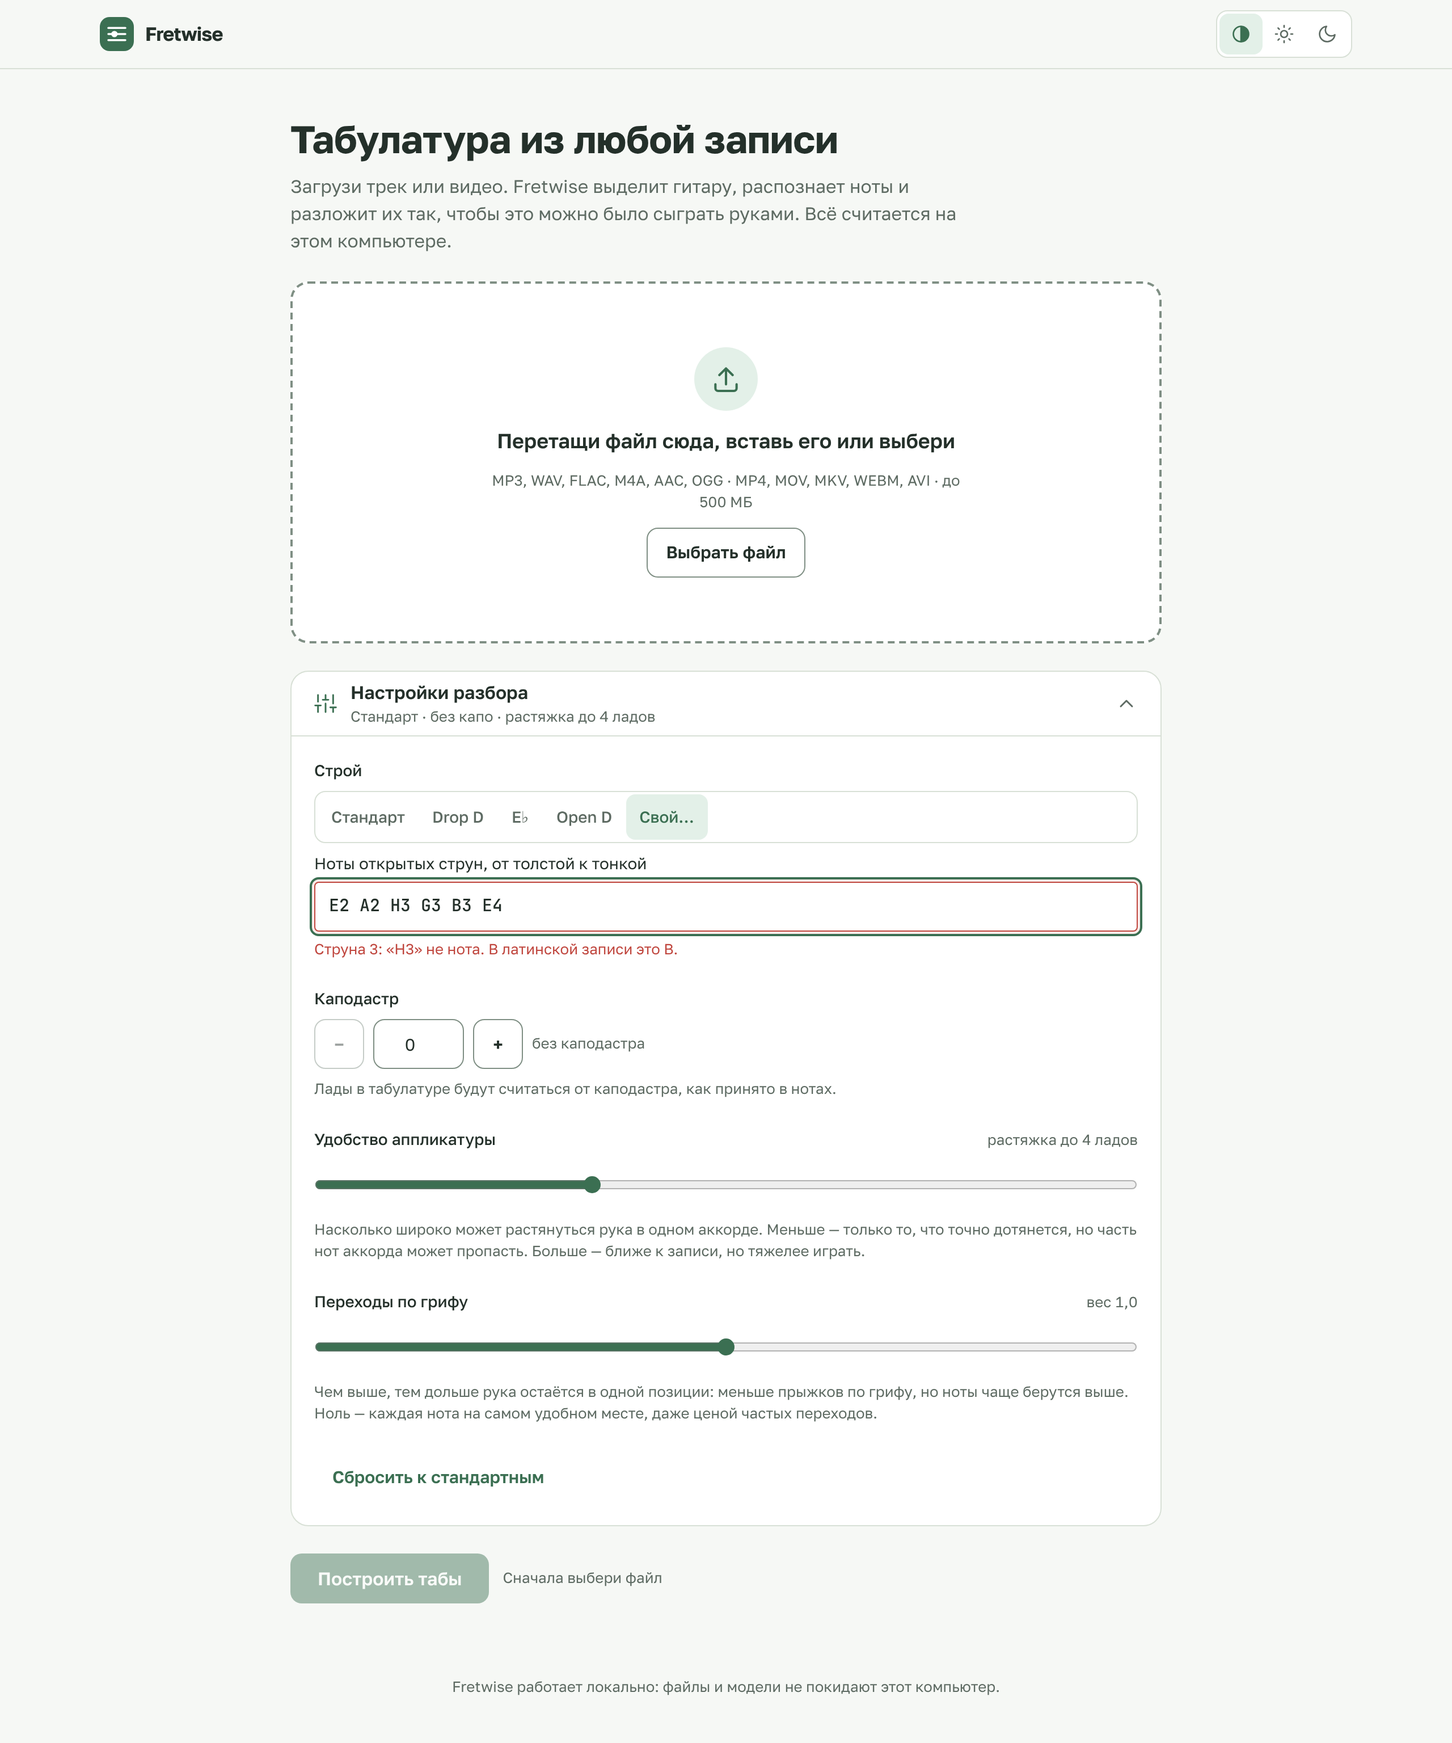
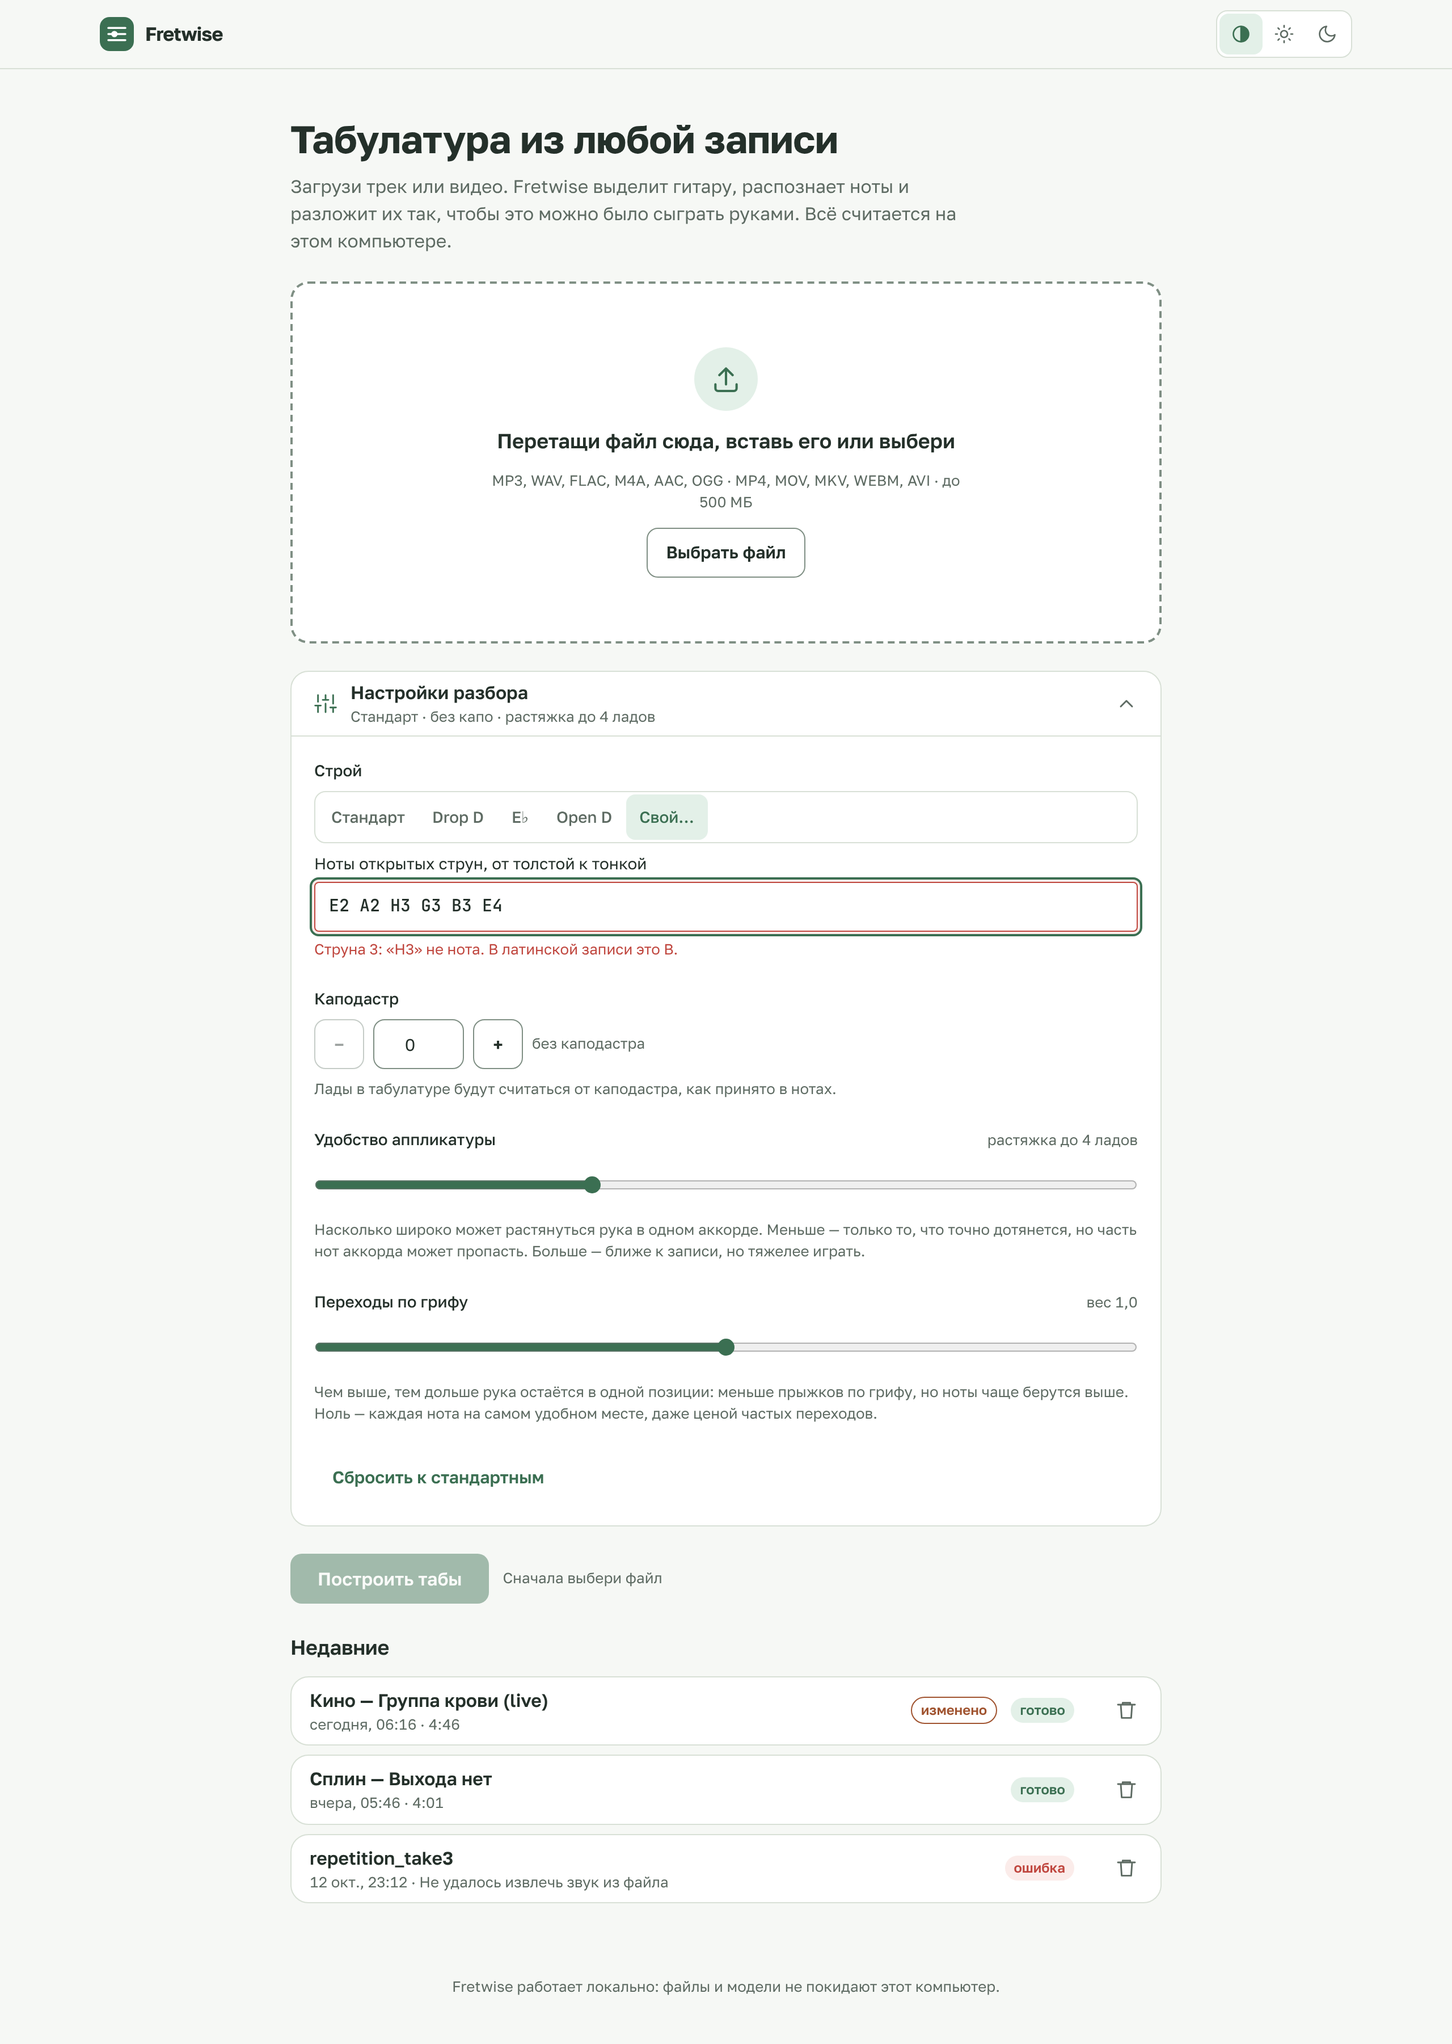
Job history on the start screen
- «Недавние» list under the upload form: title, when (сегодня / вчера /
  date), duration, status badge (готово / ошибка / отменено / в работе),
  «изменено» for edited tabs; one click opens the job (same restore path
  as ?job=), delete with inline confirmation; empty-state hint
- App: restoreJob shared by ?job= on load and opening from history
- Tests: history listing and opening, delete, empty state; App test
  mock answers the history request by default
- README: history, TTL across restarts, GET /api/jobs; screenshots
  regenerated with history

Claude-Session: https://claude.ai/code/session_01VXTWEvXddPh27pwJsDT9Na

diff --git a/frontend/src/components/RecentJobs.tsx b/frontend/src/components/RecentJobs.tsx
@@ -1,0 +1,121 @@
+import { useEffect, useState } from "react";
+import type { JobStage, JobSummary } from "../types";
+import { deleteJob, errorMessage, listJobs } from "../api/client";
+import { formatTime, formatWhen } from "../lib/format";
+import { TrashIcon } from "./icons";
+import { Button, IconButton, Spinner } from "./ui";
+
+const STAGE_BADGE: Partial<Record<JobStage, { label: string; className: string }>> = {
+  done: { label: "готово", className: "bg-accent-soft text-accent-strong" },
+  error: { label: "ошибка", className: "bg-danger-soft text-danger" },
+  cancelled: { label: "отменено", className: "border border-line text-muted" },
+};
+
+function badge(stage: JobStage) {
+  return STAGE_BADGE[stage] ?? { label: "в работе", className: "bg-accent-soft text-accent-strong" };
+}
+
+interface Props {
+  onOpen: (jobId: string) => void;
+}
+
+/**
+ * The job history on the upload screen: what was transcribed before (it
+ * survives server restarts), with one click back into any result.
+ */
+export default function RecentJobs({ onOpen }: Props) {
+  const [jobs, setJobs] = useState<JobSummary[] | null>(null);
+  const [error, setError] = useState<string | null>(null);
+  const [confirming, setConfirming] = useState<string | null>(null);
+  const [deleting, setDeleting] = useState<string | null>(null);
+
+  useEffect(() => {
+    let cancelled = false;
+    listJobs()
+      .then((list) => !cancelled && setJobs(list))
+      .catch((e) => !cancelled && setError(errorMessage(e, "Не удалось загрузить историю")));
+    return () => {
+      cancelled = true;
+    };
+  }, []);
+
+  const remove = async (id: string) => {
+    setDeleting(id);
+    try {
+      await deleteJob(id);
+      setJobs((list) => list?.filter((j) => j.id !== id) ?? null);
+    } catch (e) {
+      setError(errorMessage(e, "Не удалось удалить задачу"));
+    } finally {
+      setDeleting(null);
+      setConfirming(null);
+    }
+  };
+
+  if (error) return <p className="text-[13px] text-muted">{error}</p>;
+  if (jobs === null) return null;
+
+  return (
+    <section aria-labelledby="recent-title" className="grid grid-cols-[minmax(0,1fr)] gap-3">
+      <h2 id="recent-title" className="text-lg font-semibold">
+        Недавние
+      </h2>
+      {jobs.length === 0 ? (
+        <p className="text-[15px] text-muted">Здесь появятся разобранные треки — к ним можно будет вернуться в любой момент.</p>
+      ) : (
+        <ul className="grid grid-cols-[minmax(0,1fr)] gap-2">
+          {jobs.map((job) => {
+            const b = badge(job.stage);
+            const running = !["done", "error", "cancelled"].includes(job.stage);
+            return (
+              <li key={job.id} className="flex items-center gap-2 rounded-lg border border-line bg-surface pr-2">
+                <button
+                  type="button"
+                  onClick={() => onOpen(job.id)}
+                  className="flex min-h-14 min-w-0 flex-1 items-center gap-3 rounded-lg px-4 py-2 text-left hover:bg-accent-soft/50"
+                >
+                  <span className="min-w-0 flex-1">
+                    <span className="block truncate font-semibold" title={job.title}>
+                      {job.title}
+                    </span>
+                    <span className="tabular block truncate text-[13px] text-muted">
+                      {formatWhen(job.createdAt)}
+                      {job.durationSeconds ? ` · ${formatTime(job.durationSeconds)}` : ""}
+                      {job.stage === "error" && job.error ? ` · ${job.error.split("\n")[0]}` : ""}
+                    </span>
+                  </span>
+                  {job.edited && (
+                    <span className="hidden rounded-full border border-warm px-2 py-0.5 text-[12px] font-semibold text-warm sm:inline">изменено</span>
+                  )}
+                  <span className={`inline-flex items-center gap-1 rounded-full px-2 py-0.5 text-[12px] font-semibold ${b.className}`}>
+                    {running && <Spinner size={10} />}
+                    {b.label}
+                  </span>
+                </button>
+                {confirming === job.id ? (
+                  <span className="flex items-center gap-1">
+                    <Button variant="danger" loading={deleting === job.id} onClick={() => remove(job.id)}>
+                      Удалить
+                    </Button>
+                    <Button variant="ghost" onClick={() => setConfirming(null)}>
+                      Нет
+                    </Button>
+                  </span>
+                ) : (
+                  <IconButton
+                    label={`Удалить «${job.title}»`}
+                    onClick={() => setConfirming(job.id)}
+                    disabled={running}
+                    className="text-muted hover:bg-danger-soft hover:text-danger"
+                  >
+                    <TrashIcon />
+                  </IconButton>
+                )}
+              </li>
+            );
+          })}
+        </ul>
+      )}
+    </section>
+  );
+}

diff --git a/frontend/src/App.test.tsx b/frontend/src/App.test.tsx
@@ -56,7 +56,14 @@ const result: JobResult = {
 type Route = (url: string, init?: RequestInit) => Response | Promise<Response>;
 
 function mockFetch(route: Route) {
-  const fn = vi.fn(async (input: RequestInfo | URL, init?: RequestInit) => route(String(input), init));
+  const fn = vi.fn(async (input: RequestInfo | URL, init?: RequestInit) => {
+    // The upload screen's history list; tests that care override it in `route`.
+    if (String(input) === "/api/jobs" && (!init?.method || init.method === "GET")) {
+      const routed = await route(String(input), init);
+      return routed.headers.get("x-history") ? routed : json([]);
+    }
+    return route(String(input), init);
+  });
   vi.stubGlobal("fetch", fn);
   return fn;
 }
@@ -120,7 +127,8 @@ describe("restoring a job from ?job=", () => {
     const fetchMock = mockFetch(() => json({}));
     render(<App />);
     expect(screen.getByText("Построить табы")).toBeInTheDocument();
-    expect(fetchMock).not.toHaveBeenCalled();
+    expect(fetchMock.mock.calls.map((c) => String(c[0]))).not.toContain("/api/jobs/../../etc");
+    expect(fetchMock.mock.calls.every((c) => String(c[0]) === "/api/jobs")).toBe(true);
   });
 });
 
@@ -407,5 +415,54 @@ describe("editing the tab", () => {
     await waitFor(() => expect(screen.queryByText("изменено")).not.toBeInTheDocument());
     fireEvent.click(document.querySelector('[data-note="0:0"]')!);
     expect(fretInput().value).toBe("3");
+  });
+});
+
+
+describe("history", () => {
+  const history = [
+    { id: JOB_ID, title: "Группа крови", stage: "done", createdAt: Date.now() / 1000 - 60, durationSeconds: 286, edited: true },
+    { id: "f".repeat(32), title: "Сломанный файл", stage: "error", createdAt: Date.now() / 1000 - 90000, edited: false, error: "Не удалось извлечь звук" },
+  ];
+  const historyResponse = () => new Response(JSON.stringify(history), { status: 200, headers: { "x-history": "1" } });
+
+  it("lists previous jobs with status and opens one in a click", async () => {
+    mockFetch((url) => {
+      if (url === "/api/jobs") return historyResponse();
+      if (url.endsWith("/result")) return json(result);
+      return json(status("done", { progress: 1 }));
+    });
+    render(<App />);
+    const recent = await screen.findByRole("region", { name: "Недавние" });
+    expect(recent).toHaveTextContent("Группа крови");
+    expect(recent).toHaveTextContent("готово");
+    expect(recent).toHaveTextContent("изменено");
+    expect(recent).toHaveTextContent("ошибка");
+    expect(recent).toHaveTextContent(/сегодня, \d\d:\d\d · 4:46/);
+    expect(recent).toHaveTextContent(/вчера/);
+
+    fireEvent.click(screen.getByRole("button", { name: /^Группа крови/ }));
+    expect(await screen.findByRole("heading", { name: "Группа крови" })).toBeInTheDocument();
+    expect(window.location.search).toBe(`?job=${JOB_ID}`);
+  });
+
+  it("deletes a job after confirming", async () => {
+    const fetchMock = mockFetch((url, init) => {
+      if (url === "/api/jobs") return historyResponse();
+      if (init?.method === "DELETE") return new Response(null, { status: 204 });
+      return json({});
+    });
+    render(<App />);
+    await screen.findByRole("region", { name: "Недавние" });
+    fireEvent.click(screen.getByRole("button", { name: "Удалить «Сломанный файл»" }));
+    fireEvent.click(screen.getByRole("button", { name: "Удалить" }));
+    await waitFor(() => expect(screen.queryByText("Сломанный файл")).not.toBeInTheDocument());
+    expect(fetchMock).toHaveBeenCalledWith(`/api/jobs/${"f".repeat(32)}`, expect.objectContaining({ method: "DELETE" }));
+  });
+
+  it("explains the empty history", async () => {
+    mockFetch(() => json({}));
+    render(<App />);
+    expect(await screen.findByText(/Здесь появятся разобранные треки/)).toBeInTheDocument();
   });
 });

diff --git a/frontend/src/App.tsx b/frontend/src/App.tsx
@@ -210,15 +210,14 @@ export default function App() {
     }
   }, [status, closeStream]);
 
-  // Coming back to `?job=<id>` (reload, bookmark): pick up wherever that job is.
-  useEffect(() => {
-    const jobId = jobIdFromUrl();
-    if (!jobId) return;
-    let cancelled = false;
-    (async () => {
+  /** Pick up wherever a job is: processing, result or failure. Used for
+   * `?job=<id>` on load (reload, bookmark) and for opening a job from the
+   * history list. */
+  const restoreJob = useCallback(
+    async (jobId: string, isCancelled: () => boolean = () => false) => {
       try {
         const current = await getJobStatus(jobId);
-        if (cancelled) return;
+        if (isCancelled()) return;
         setStatus(current);
         if (current.stage === "done") {
           await loadResult(jobId);
@@ -227,7 +226,7 @@ export default function App() {
           if (current.stage !== "error" && current.stage !== "cancelled") watchJob(jobId);
         }
       } catch (e) {
-        if (cancelled) return;
+        if (isCancelled()) return;
         setJobIdInUrl(null);
         setView("upload");
         setError(
@@ -236,11 +235,33 @@ export default function App() {
             : errorMessage(e, "Не удалось восстановить задачу из ссылки"),
         );
       }
+    },
+    [loadResult, watchJob],
+  );
+
+  useEffect(() => {
+    const jobId = jobIdFromUrl();
+    if (!jobId) return;
+    let cancelled = false;
+    (async () => {
+      await restoreJob(jobId, () => cancelled);
     })();
     return () => {
       cancelled = true;
     };
-  }, [loadResult, watchJob]);
+  }, [restoreJob]);
+
+  const openJob = useCallback(
+    (jobId: string) => {
+      setError(null);
+      setConnectionError(null);
+      setFile(null);
+      setJobIdInUrl(jobId);
+      setView("restoring");
+      void restoreJob(jobId);
+    },
+    [restoreJob],
+  );
 
   useEffect(() => () => esRef.current?.close(), []);
 
@@ -280,6 +301,7 @@ export default function App() {
             onSubmit={startJob}
             submitting={submitting}
             error={error}
+            onOpenJob={openJob}
           />
         )}
 

diff --git a/frontend/src/components/UploadScreen.tsx b/frontend/src/components/UploadScreen.tsx
@@ -1,6 +1,7 @@
 import { useCallback, useEffect, useId, useMemo, useRef, useState, type ReactNode } from "react";
 import type { TabSettings } from "../types";
 import { formatSize, formatTime } from "../lib/format";
+import RecentJobs from "./RecentJobs";
 import SettingsPanel from "./SettingsPanel";
 import { MusicFileIcon, UploadIcon, VideoFileIcon } from "./icons";
 import { Alert, Button } from "./ui";
@@ -88,9 +89,10 @@ interface Props {
   submitting: boolean;
   /** Server or restore error shown above the form. */
   error: string | null;
+  onOpenJob: (jobId: string) => void;
 }
 
-export default function UploadScreen({ file, onFileChange, settings, onSettingsChange, onSubmit, submitting, error }: Props) {
+export default function UploadScreen({ file, onFileChange, settings, onSettingsChange, onSubmit, submitting, error, onOpenJob }: Props) {
   const inputRef = useRef<HTMLInputElement>(null);
   const [dragging, setDragging] = useState(false);
   const [rejection, setRejection] = useState<string | null>(null);
@@ -198,6 +200,8 @@ export default function UploadScreen({ file, onFileChange, settings, onSettingsC
         {!file && <span className="text-[13px] text-muted">Сначала выбери файл</span>}
         {file && !settingsValid && <span className="text-[13px] text-danger">Исправь строй в настройках</span>}
       </div>
+
+      <RecentJobs onOpen={onOpenJob} />
     </div>
   );
 }

diff --git a/frontend/src/lib/format.ts b/frontend/src/lib/format.ts
@@ -30,3 +30,14 @@ export function formatEta(seconds: number | null | undefined): string | null {
   const minutes = Math.round(seconds / 60);
   return `≈ ${minutes} ${plural(minutes, ["минута", "минуты", "минут"])}`;
 }
+
+/** "сегодня, 14:32" / "вчера, 09:10" / "3 окт., 18:05" */
+export function formatWhen(unixSeconds: number, now = new Date()): string {
+  const date = new Date(unixSeconds * 1000);
+  const time = date.toLocaleTimeString("ru-RU", { hour: "2-digit", minute: "2-digit" });
+  const startOfToday = new Date(now.getFullYear(), now.getMonth(), now.getDate()).getTime();
+  const day = 24 * 3600 * 1000;
+  if (date.getTime() >= startOfToday) return `сегодня, ${time}`;
+  if (date.getTime() >= startOfToday - day) return `вчера, ${time}`;
+  return `${date.toLocaleDateString("ru-RU", { day: "numeric", month: "short" })}, ${time}`;
+}

diff --git a/README.md b/README.md
@@ -22,6 +22,7 @@ The resulting tab plays back in the browser with a cursor synced to the audio, a
 - Keyboard shortcuts (Space, ←/→, L, +/−, M, C, G, ?) with an in-app list
 - Light and dark themes («Шалфей» palette, WCAG AA contrast), usable from a 375 px phone to a wide monitor
 - The job lives in the URL (`?job=…`), so a reload brings you back to the same progress screen or result
+- **Job history** on the start screen: previous transcriptions (with their edits) survive server restarts and open in one click; finished jobs expire after `FRETWISE_JOB_TTL_HOURS`
 - **Fix notes in the browser**: change fret or string, delete or add notes, undo/redo (Ctrl+Z / Ctrl+Shift+Z); edits are saved on the server and every export includes them
 - **Export** to Guitar Pro (`.gp5`, via PyGuitarPro), plain-text ASCII tab (`.txt`) and Standard MIDI (`.mid`), all on the same bar grid
 - One-command **Docker Compose** setup
@@ -48,6 +49,7 @@ More in [`docs/screenshots/`](docs/screenshots). They are generated from the pro
 
 | Method | Path | Purpose |
 |---|---|---|
+| `GET` | `/api/jobs` | Job history, newest first |
 | `POST` | `/api/jobs` | Upload a file (`file`) with `settings` (JSON) and start a job |
 | `GET` | `/api/jobs/{id}` | Job status: stage, progress, `queuePosition`, `etaSeconds`, `cancelRequested` |
 | `GET` | `/api/jobs/{id}/events` | The same status as a Server-Sent Events stream |
@@ -120,7 +122,7 @@ npm run dev
 | Variable | Default | Meaning |
 |---|---|---|
 | `FRETWISE_MAX_CONCURRENT_JOBS` | `1` | How many tracks are processed at once. Extra uploads wait in a queue and see their position. Each Demucs run can use several GB of RAM. |
-| `FRETWISE_JOB_TTL_HOURS` | `24` | Finished jobs and their files are deleted after this many hours. Job folders left over from a previous run are removed on startup. |
+| `FRETWISE_JOB_TTL_HOURS` | `24` | Finished jobs and their files are deleted after this many hours (wall-clock, counted across restarts). Raise it to keep a longer history. Finished jobs are restored on startup; jobs interrupted by a restart are reported as errors. |
 
 A finished job can also be deleted right away with `DELETE /api/jobs/{id}`.
 
